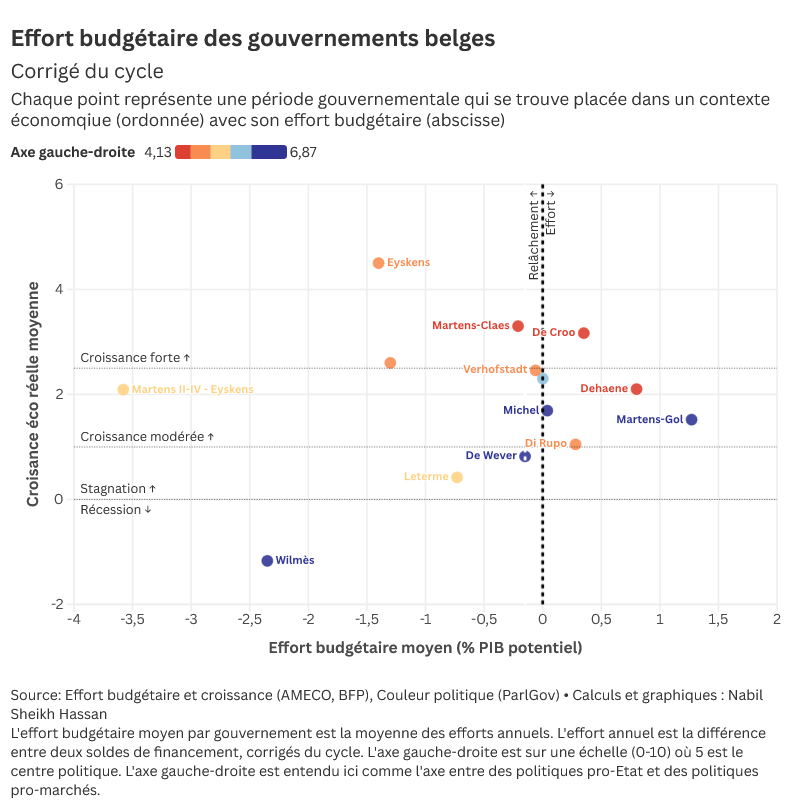
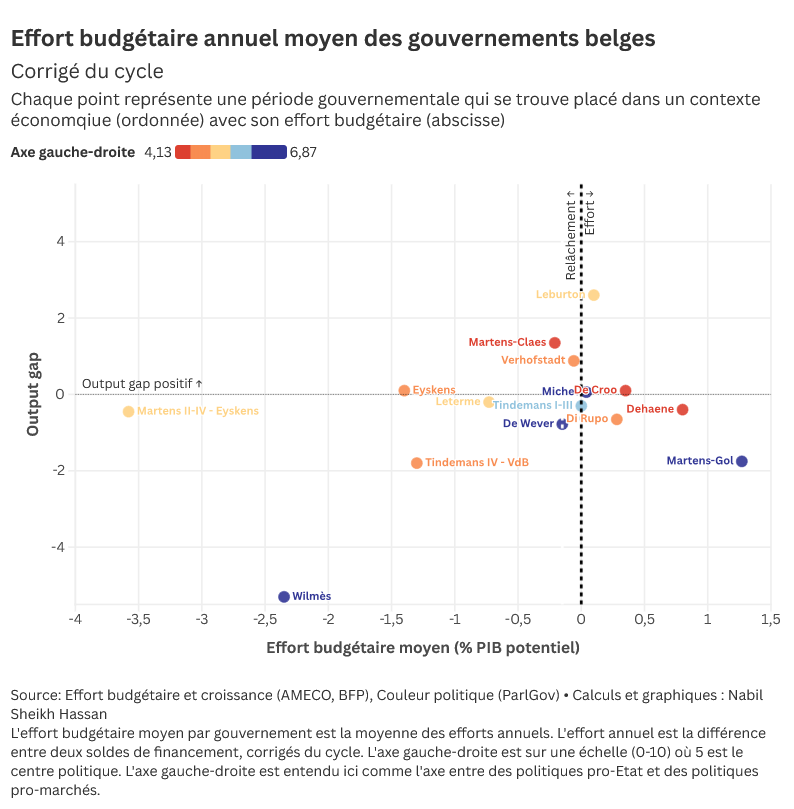
Fin de billet, graphiques du billet déficit

diff --git a/assets/nsh.css b/assets/nsh.css
@@ -247,34 +247,35 @@ mark.hl {
 .post-row:hover::before, .mini li:hover::before { opacity: 1; }
 
 /* ---------- Abonnement : titre à gauche, champ et bouton à droite ---------- */
-#abonnement { position: relative; display: grid; grid-template-columns: 1fr 1fr; gap: 28px 56px; align-items: start;
+/* Préfixé par #quarto-content pour l'emporter sur les styles du texte des billets (fin de billet) */
+#quarto-content #abonnement { position: relative; display: grid; grid-template-columns: 1fr 1fr; gap: 28px 56px; align-items: start;
   margin: 0; padding: 36px 0 8px; color: var(--ink); border-top: 5px solid var(--ink); }
 /* Second filet, rose, sous le noir */
-#abonnement::after { content: ""; position: absolute; left: 0; right: 0; top: 4px; height: 4px; background: var(--accent-2); }
-#abonnement h2 { margin: 0 0 16px; padding-bottom: 0; border: 0; font-family: var(--font-head); font-weight: 900; font-size: clamp(26px, 3vw, 34px); line-height: 1.12;
+#quarto-content #abonnement::after { content: ""; position: absolute; left: 0; right: 0; top: 4px; height: 4px; background: var(--accent-2); }
+#quarto-content #abonnement h2 { margin: 0 0 16px; padding-bottom: 0; border: 0; font-family: var(--font-head); font-weight: 900; font-size: clamp(26px, 3vw, 34px); line-height: 1.12;
   letter-spacing: -0.01em; color: var(--ink); text-shadow: 2px 1.5px 0 var(--shadow-ink); }
-#abonnement .sub-intro p { margin: 0; font-size: 17px; line-height: 1.55; color: var(--muted); }
-#abonnement form { display: grid; gap: 12px; align-items: center; }
-#abonnement form[hidden] { display: none; }
-#abonnement input[type="email"] { width: 100%; min-width: 0; padding: 13px 14px;
+#quarto-content #abonnement .sub-intro p { margin: 0; font-size: 17px; line-height: 1.55; color: var(--muted); }
+#quarto-content #abonnement form { display: grid; gap: 12px; align-items: center; }
+#quarto-content #abonnement form[hidden] { display: none; }
+#quarto-content #abonnement input[type="email"] { width: 100%; min-width: 0; padding: 13px 14px;
   font: inherit; font-family: var(--font-label); font-size: 17px;
   background: var(--field-plain, #fff); color: var(--ink); border: 2px solid var(--ink); border-radius: 0; }
-#abonnement input[type="email"]::placeholder { color: var(--muted); }
-#abonnement input[type="email"]:focus { outline: 3px solid var(--accent-2); outline-offset: 2px; }
-#abonnement button { width: 100%; padding: 14px 18px; cursor: pointer;
+#quarto-content #abonnement input[type="email"]::placeholder { color: var(--muted); }
+#quarto-content #abonnement input[type="email"]:focus { outline: 3px solid var(--accent-2); outline-offset: 2px; }
+#quarto-content #abonnement button { width: 100%; padding: 14px 18px; cursor: pointer;
   font: inherit; font-family: var(--font-label); font-weight: 900; font-size: 15px; text-transform: uppercase; letter-spacing: .08em;
   background: var(--ink); color: var(--bg); border: 0; border-radius: 0; transition: box-shadow .15s; }
-#abonnement button:hover { box-shadow: 5px 4px 0 var(--accent-2); }
-#abonnement button:disabled { opacity: .6; cursor: wait; }
-#abonnement .sub-msg { margin: 0; font-size: 16px; font-weight: 700; color: var(--ink); }
-#abonnement .sub-legal { margin: 14px 0 0; font-size: 14px; line-height: 1.5; color: var(--muted); }
+#quarto-content #abonnement button:hover { box-shadow: 5px 4px 0 var(--accent-2); }
+#quarto-content #abonnement button:disabled { opacity: .6; cursor: wait; }
+#quarto-content #abonnement .sub-msg { margin: 0; font-size: 16px; font-weight: 700; color: var(--ink); }
+#quarto-content #abonnement .sub-legal { margin: 14px 0 0; font-size: 14px; line-height: 1.5; color: var(--muted); }
 /* Liens vers les flux RSS */
-#abonnement .rss-links { display: flex; flex-wrap: wrap; align-items: center; gap: 4px 14px; margin: 14px 0 0;
+#quarto-content #abonnement .rss-links { display: flex; flex-wrap: wrap; align-items: center; gap: 4px 14px; margin: 14px 0 0;
   font-family: var(--font-label); font-size: 14px; color: var(--muted); }
-#abonnement .rss-links svg { width: 14px; height: 14px; }
-#abonnement .rss-links a { color: var(--ink); text-decoration-color: var(--accent-2); text-decoration-thickness: 2px; text-underline-offset: 3px; }
-#abonnement .rss-links a:hover { color: var(--accent-2-text); }
-@media (max-width: 760px) { #abonnement { grid-template-columns: 1fr; gap: 22px; padding-top: 28px; } }
+#quarto-content #abonnement .rss-links svg { width: 14px; height: 14px; }
+#quarto-content #abonnement .rss-links a { color: var(--ink); text-decoration-color: var(--accent-2); text-decoration-thickness: 2px; text-underline-offset: 3px; }
+#quarto-content #abonnement .rss-links a:hover { color: var(--accent-2-text); }
+@media (max-width: 760px) { #quarto-content #abonnement { grid-template-columns: 1fr; gap: 22px; padding-top: 28px; } }
 
 /* ---------- Blog : liste des billets ---------- */
 .page-head { padding: 56px 0 18px; }
@@ -421,6 +422,15 @@ code { color: inherit; font-family: var(--font-code); }
 #quarto-appendix .appendix-heading, #quarto-appendix h2.anchored { font-family: var(--font-label); font-size: 13px; text-transform: uppercase; letter-spacing: .1em; font-weight: 800; color: var(--muted); border: 0; margin: 0 0 8px; }
 #quarto-appendix .quarto-appendix-contents { margin: 0; }
 #quarto-appendix .quarto-appendix-secondary-label { font-family: var(--font-label); font-weight: 800; font-size: 13px; color: var(--ink); margin-top: 14px; }
+
+/* Fin de billet (bloc ajouté par site.js) : abonnement en une colonne, puis la même rubrique */
+.billet #quarto-content > .fin-billet { margin-top: 56px; }
+#quarto-content .fin-billet #abonnement { grid-template-columns: 1fr; gap: 20px; }
+.billet #quarto-content .fin-lire { margin-top: 48px; }
+.billet #quarto-content .fin-billet .section-head { margin-bottom: 4px; }
+.billet #quarto-content .fin-billet h2.section-title { margin: 0; font-family: var(--font-label); font-size: 15px; font-weight: 800; line-height: inherit;
+  text-transform: uppercase; letter-spacing: .1em; color: var(--accent); }
+.billet #quarto-content .fin-billet .post-row:last-child { border-bottom: 0; }
 
 /* Pour citer (bloc ajouté par site.js) */
 .billet #quarto-content > .pour-citer { margin-top: 40px; padding: 16px 18px; border: 2.5px solid var(--frame); border-left: 8px solid var(--accent-2); }

diff --git a/assets/site.js b/assets/site.js
@@ -79,11 +79,55 @@
     document.addEventListener('DOMContentLoaded', function () {
       var app = document.getElementById('quarto-appendix'), foot = document.querySelector('.site-footer');
       (app || foot).before(cite);
+      finBillet(cite);
     });
   }
 
+  // Fin de billet : abonnement, puis deux billets de la même rubrique (lus dans son flux RSS)
+  function finBillet(cite) {
+    var tpl = document.getElementById('tpl-fin-billet'); if (!tpl) return;
+    var fin = tpl.content.firstElementChild.cloneNode(true);
+    var meta = document.querySelector('.post-head .meta'), rub = (meta && meta.dataset.rub) || 'eco';
+    var slug = { eco: 'economie', ref: 'reflexions', met: 'methodes' }[rub] || 'economie';
+    var nom = ((document.querySelector('.post-head .rub') || {}).textContent || '').trim();
+    fin.querySelector('.rss-rub').href = '/blog/' + slug + '.xml';
+    if (nom) fin.querySelector('.rss-rub').textContent = nom;
+    cite.before(fin);
+    fin.querySelectorAll('form.kit-form').forEach(kitForm);
+
+    var lire = fin.querySelector('.fin-lire'), liste = fin.querySelector('.fin-liste');
+    var ici = location.pathname.replace(/index\.html$/, '');
+    var billets = function (xml) {
+      return Array.prototype.map.call(new DOMParser().parseFromString(xml, 'text/xml').querySelectorAll('item'), function (it) {
+        var get = function (t) { return ((it.querySelector(t) || {}).textContent || '').trim(); };
+        return { titre: get('title'), lien: new URL(get('link'), location.href).pathname, date: new Date(get('pubDate')) };
+      }).filter(function (b) { return b.lien.replace(/index\.html$/, '') !== ici; });
+    };
+    var montrer = function (items, titre, lien, texte) {
+      if (!items.length) return;
+      lire.querySelector('.section-title').textContent = titre;
+      var tous = lire.querySelector('.fin-tous'); tous.href = lien; tous.textContent = texte;
+      items.slice(0, 2).forEach(function (b) {
+        var row = document.createElement('article'); row.className = 'post-row'; row.dataset.rub = rub;
+        row.innerHTML = '<div class="when"></div><div><a class="t"></a></div>';
+        row.querySelector('.when').textContent = isNaN(b.date) ? '' : b.date.toLocaleDateString('fr-BE', { day: 'numeric', month: 'long', year: 'numeric', timeZone: 'Europe/Brussels' });
+        var a = row.querySelector('a'); a.href = b.lien; a.textContent = b.titre;
+        liste.appendChild(row);
+      });
+      lire.hidden = false;
+    };
+    if (!window.fetch || !window.DOMParser) return;
+    var lireFlux = function (url) { return fetch(url).then(function (r) { if (!r.ok) throw new Error(r.status); return r.text(); }).then(billets); };
+    // Même rubrique d'abord ; sinon, les autres billets du blog
+    lireFlux('/blog/' + slug + '.xml').then(function (items) {
+      if (items.length) return montrer(items, 'Dans la même rubrique', '/blog/' + slug + '.html', 'Toute la rubrique →');
+      return lireFlux('/blog.xml').then(function (tous) { montrer(tous, 'À lire aussi', '/blog.html', 'Tous les billets →'); });
+    }).catch(function () {});
+  }
+
   // Abonnement : envoi à Kit sans quitter la page (sans JavaScript, le formulaire part directement chez Kit)
-  document.querySelectorAll('form.kit-form').forEach(function (form) {
+  document.querySelectorAll('form.kit-form').forEach(kitForm);
+  function kitForm(form) {
     form.addEventListener('submit', function (e) {
       if (!window.fetch) return;
       e.preventDefault();
@@ -102,7 +146,7 @@
           msg.hidden = false;
         });
     });
-  });
+  }
 
   // Barre de lecture
   var prog = document.querySelector('.progress span');

diff --git a/assets/footer.html b/assets/footer.html
@@ -2,4 +2,28 @@
   <span>Nabil Sheikh Hassan · textes sous licence CC BY-NC-ND 4.0</span>
   <span>Fait avec Quarto · sans cookie</span>
 </div></footer>
+<!-- Fin de billet : posée par site.js après la conclusion, sur les billets seulement -->
+<template id="tpl-fin-billet">
+<section class="fin-billet" aria-label="Après la lecture">
+  <div class="subscribe" id="abonnement">
+    <div class="sub-intro">
+      <h2>Pour ne pas rater la suite</h2>
+      <p>Une lettre de temps en temps, avec les nouveaux billets et ce que je publie ailleurs.</p>
+    </div>
+    <div class="sub-action">
+      <form class="kit-form" action="https://app.kit.com/forms/10121500/subscriptions" method="post">
+        <input type="email" name="email_address" placeholder="Ton adresse mail" aria-label="Adresse mail" autocomplete="email" required>
+        <button type="submit">Je m'abonne</button>
+      </form>
+      <p class="sub-msg" role="status" hidden></p>
+      <p class="sub-legal">Pas de pub, désinscription en un clic. Envoi par Kit ; un mail de confirmation suit l'inscription.</p>
+      <p class="rss-links"><svg aria-hidden="true" fill="currentColor" viewBox="0 0 24 24"><path d="M19.199 24C19.199 13.467 10.533 4.8 0 4.8V0c13.165 0 24 10.835 24 24h-4.801zM3.291 17.415c1.814 0 3.293 1.479 3.293 3.295 0 1.813-1.485 3.29-3.301 3.29C1.47 24 0 22.526 0 20.71s1.475-3.294 3.291-3.295zM15.909 24h-4.665c0-6.169-5.075-11.245-11.244-11.245V8.09c8.727 0 15.909 7.184 15.909 15.91z"/></svg><span>Tu préfères le RSS ?</span><a class="rss-rub" href="/blog.xml">cette rubrique</a><a href="/blog.xml">tout le blog</a></p>
+    </div>
+  </div>
+  <div class="fin-lire" hidden>
+    <div class="section-head"><h2 class="section-title">Dans la même rubrique</h2><a class="fin-tous" href="/blog.html">Toute la rubrique →</a></div>
+    <div class="fin-liste"></div>
+  </div>
+</section>
+</template>
 <script src="/assets/site.js"></script>
